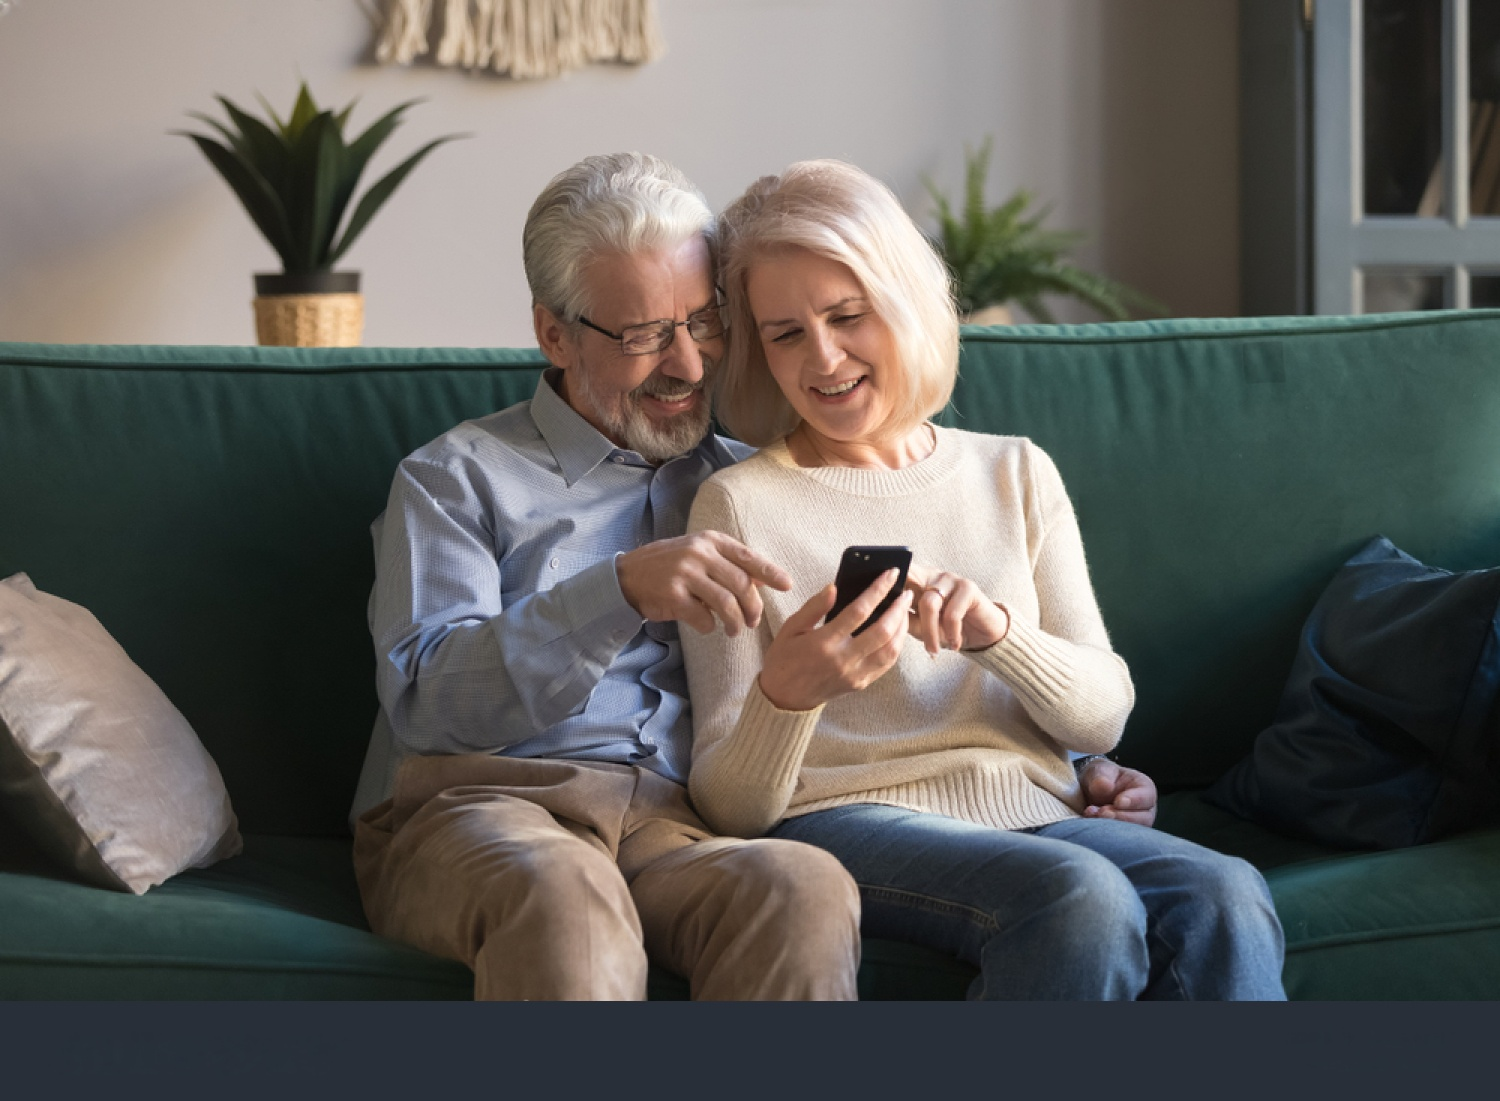
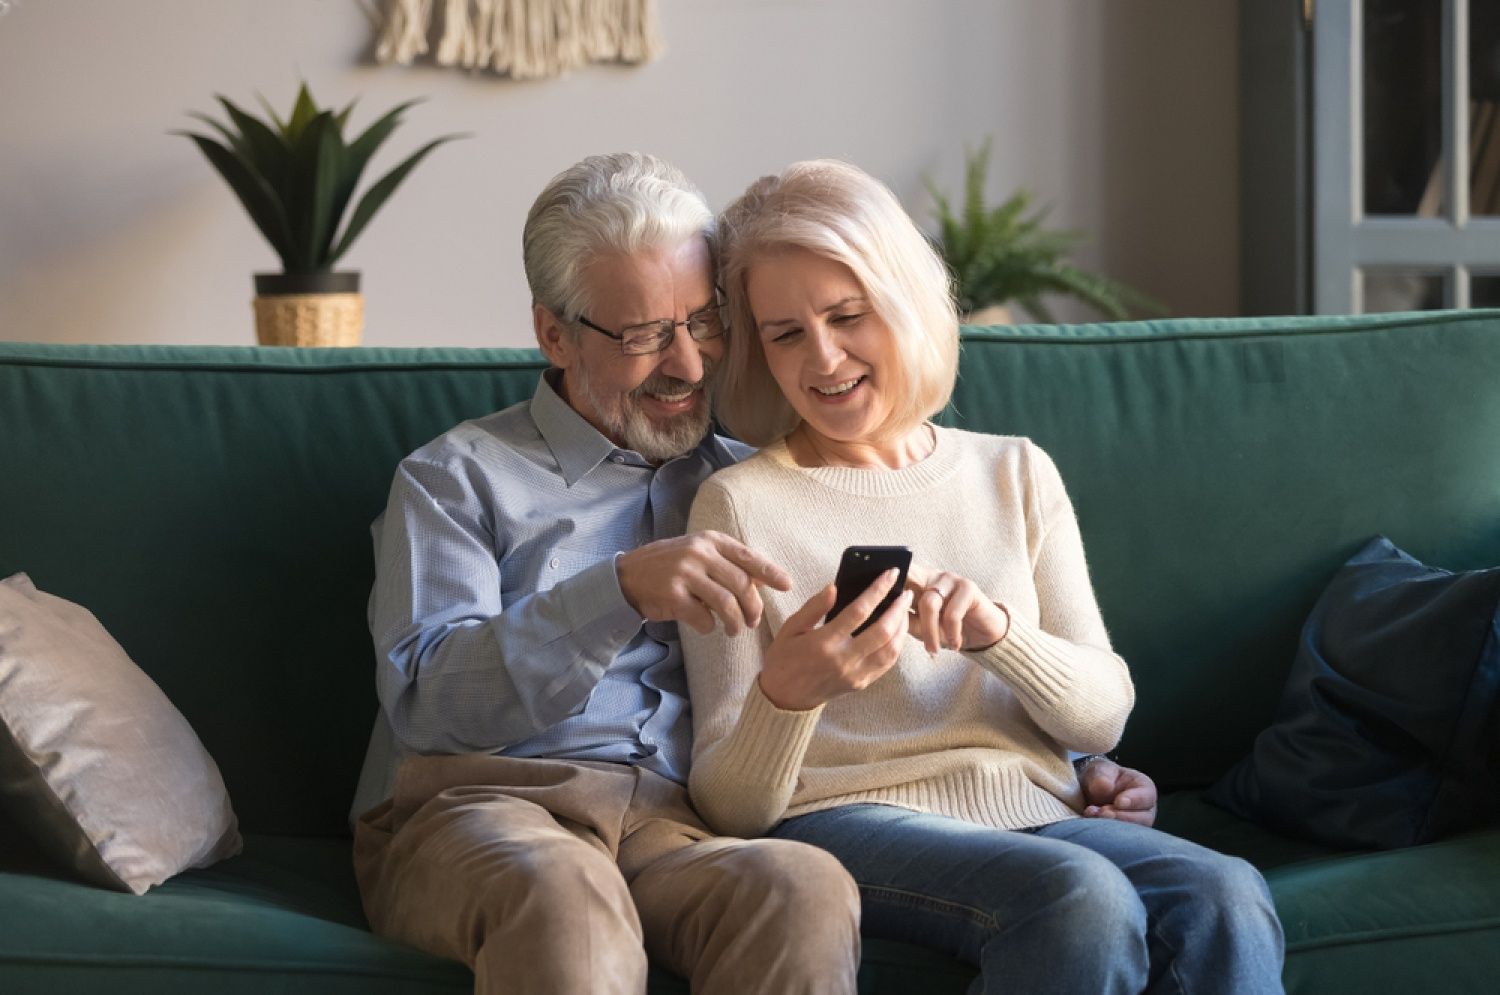
updated home page

diff --git a/styles/site.css b/styles/site.css
@@ -1,20 +1,20 @@
 nav ul {
-  display: flex;
-  flex-direction: row;
-  list-style: none;
+    display: flex;
+    flex-direction: row;
+    list-style: none;
 }
 
 body {
     font-family: 'Nunito Sans';
 }
 
-nav ul li a{
+nav ul li a {
     text-decoration: none;
     color: black;
     display: block;
     padding: .5em 1em;
     padding-right: 20px;
-    font-size: 18px;
+    font-size: 20px;
 }
 
 .header {
@@ -38,32 +38,35 @@ nav ul li a{
 
 .main-container {
     display: flex;
-    background-color: rgb(225, 222, 222);
+    background-color: rgb(233, 236, 247);
 }
 
-#left-container,
-#right-container {
-  flex: 1; 
-}
-
-#right-container {
+#left-container {
     flex: 1;
+}
+
+#right-container {
+    flex: 2;
+}
+
+#right-container {
     display: flex;
     align-items: stretch;
 }
 
 #right-container img {
-  width: 100%;
-  height: 100%;
-  object-fit: cover;
+    width: 100%;
+    height: 100%;
+    object-fit: cover;
 }
 
 #left-container {
     padding: 40px;
     display: flex;
     flex-direction: column;
-    justify-content: center;  /* horizontal centering */
-    align-items: center;    
+    justify-content: center;
+    /* horizontal centering */
+    align-items: center;
     gap: 50px;
 }
 
@@ -73,9 +76,11 @@ nav ul li a{
     border-radius: 8px;
     background-color: #242b8f;
     color: white;
+    font-size: 20px;
 }
 
-#company-values {
+#company-values,
+#company-services {
     padding: 40px 20px;
     justify-content: center;
     align-items: center;
@@ -83,15 +88,62 @@ nav ul li a{
 
 }
 
-.grid-container {
+.grid-container-1 {
     display: grid;
-    grid-template-columns: 300px 300px 300px;
-    grid-template-rows: 500px;
+    grid-template-columns: 400px 400px 400px;
+    grid-template-rows: 400px;
     gap: 30px;
-     justify-content: center;
+    justify-content: center;
+    padding-top: 40px;
 }
 
-.card {
-  border: 1px solid black;
-  border-radius: 8px;
+.grid-container-1 .card {
+    border: 1px solid black;
+}
+
+.grid-container-2 {
+    display: grid;
+    grid-template-columns: 300px 300px 300px;
+    grid-template-rows: 550px;
+    gap: 30px;
+    justify-content: center;
+}
+
+.grid-container-2 .card {
+    border: 1px solid black;
+    border-radius: 8px;
+    display: flex;
+    flex-direction: column;
+    justify-content: center;
+}
+
+.upper-half {
+    flex: 3;
+}
+
+.lower-half {
+    flex: 5;
+}
+
+.upper-half {
+    background-color: #000082;
+    overflow: hidden;
+}
+
+#mission-statement {
+    display: flex;
+    flex-direction: column;
+    justify-content: center;
+    align-items: center;
+    padding: 30px 350px;
+    background-color: rgb(233, 236, 247);
+}
+
+p {
+    font-size: 18px;
+}
+
+h1 {
+    font-weight: lighter;
+    font-size: 40px;
 }

diff --git a/home.html b/home.html
@@ -27,7 +27,7 @@
             <ul id="menu">
                 <li><a href="home.html">Home</a></li>
                 <li><a href="services.html">Services</a></li>
-                <li><a href="about.html">About HeirGuard™</a></li>
+                <li><a href="about.html">About HeirGuard</a></li>
                 <li><a href="schedule.html">Schedule a Review</a></li>
                 <li><a href="contact.html">Contact</a></li>
             </ul>
@@ -35,19 +35,48 @@
     </div>
     <div class="main-container">
         <div id="left-container">
-            <h1><em>“Protect What Matters Most—Your Identity, Your Legacy, Your Peace of Mind.”</em></h1>
+            <h1><em>“Protect What Matters Most — Your Identity, Your Legacy, Your Peace of Mind.”</em></h1>
             <button id="actionButton">Get Started Today</button>
         </div>
         <div id="right-container">
-            <img src="images/stockImage.jpg" alt="" height="550">
+            <img src="images/stockImage.jpg" alt="" height="700">
+        </div>
+    </div>
+    <div id="company-services">
+        <h2>Our Services</h2>
+        <div class="grid-container-1">
+            <div class="card"><h2>Personal Security Review</h2></div>
+            <div class="card"><h2>HeirGuard Multi-App Suite</h2></div>
+            <div class="card"><h2>Educational Talks</h2></div>
         </div>
     </div>
     <div id="company-values">
         <h2>Why HeirGuard™?</h2>
-        <div class="grid-container">
-            <div class="card"></div>
-            <div class="card"></div>
-            <div class="card"></div>
+        <div class="grid-container-2">
+            <div class="card">
+                <div class="upper-half">
+                    <img src="images/trustworthy.png" alt="" height="200">
+                </div>
+                <div class="lower-half">
+                    <h2>We are trustworthy.</h2>
+                </div>
+            </div>
+            <div class="card">
+                <div class="upper-half">
+                    <img src="images/human-centered.png" alt="" height="200">
+                </div>
+                <div class="lower-half">
+                    <h2>We are human-centered.</h2>
+                </div>
+            </div>
+            <div class="card">
+                <div class="upper-half">
+                    <img src="images/action-oriented.png" alt="" height="200">
+                </div>
+                <div class="lower-half">
+                    <h2>We are action-oriented.</h2>
+                </div>
+            </div>
         </div>
     </div>
 </body>

diff --git a/about.html b/about.html
@@ -28,12 +28,27 @@
             <ul id="menu">
                 <li><a href="home.html">Home</a></li>
                 <li><a href="services.html">Services</a></li>
-                <li><a href="about.html">About HeirGuard™</a></li>
+                <li><a href="about.html">About HeirGuard</a></li>
                 <li><a href="schedule.html">Schedule a Review</a></li>
                 <li><a href="contact.html">Contact</a></li>
             </ul>
         </nav>
     </div>
+    <div id="mission-statement">
+        <h2>HeirGuard™ Mission Statement</h2>
+        <p>
+            HeirGuard™ exists to preserve the digital dignity, security, and legacy of older adults.
+            We empower seniors and their families through practical fraud prevention, identity protection,
+            and personalized digital literacy—ensuring every individual can navigate the digital world with
+            confidence, clarity, and peace of mind.
+        </p>
+        <p>
+            Our commitment is rooted in care, trust, and education. By combining technology, hands-on support,
+            and scalable community outreach, we aim to protect not just assets—but the legacy each person
+            deserves to pass forward, safely and securely.
+        </p>
+    </div>
+    <h2>Our Team</h2>
 </body>
 
 </html>

diff --git a/contact.html b/contact.html
@@ -28,7 +28,7 @@
             <ul id="menu">
                 <li><a href="home.html">Home</a></li>
                 <li><a href="services.html">Services</a></li>
-                <li><a href="about.html">About HeirGuard™</a></li>
+                <li><a href="about.html">About HeirGuard</a></li>
                 <li><a href="schedule.html">Schedule a Review</a></li>
                 <li><a href="contact.html">Contact</a></li>
             </ul>

diff --git a/schedule.html b/schedule.html
@@ -28,7 +28,7 @@
             <ul id="menu">
                 <li><a href="home.html">Home</a></li>
                 <li><a href="services.html">Services</a></li>
-                <li><a href="about.html">About HeirGuard™</a></li>
+                <li><a href="about.html">About HeirGuard</a></li>
                 <li><a href="schedule.html">Schedule a Review</a></li>
                 <li><a href="contact.html">Contact</a></li>
             </ul>

diff --git a/services.html b/services.html
@@ -28,7 +28,7 @@
             <ul id="menu">
                 <li><a href="home.html">Home</a></li>
                 <li><a href="services.html">Services</a></li>
-                <li><a href="about.html">About HeirGuard™</a></li>
+                <li><a href="about.html">About HeirGuard</a></li>
                 <li><a href="schedule.html">Schedule a Review</a></li>
                 <li><a href="contact.html">Contact</a></li>
             </ul>
